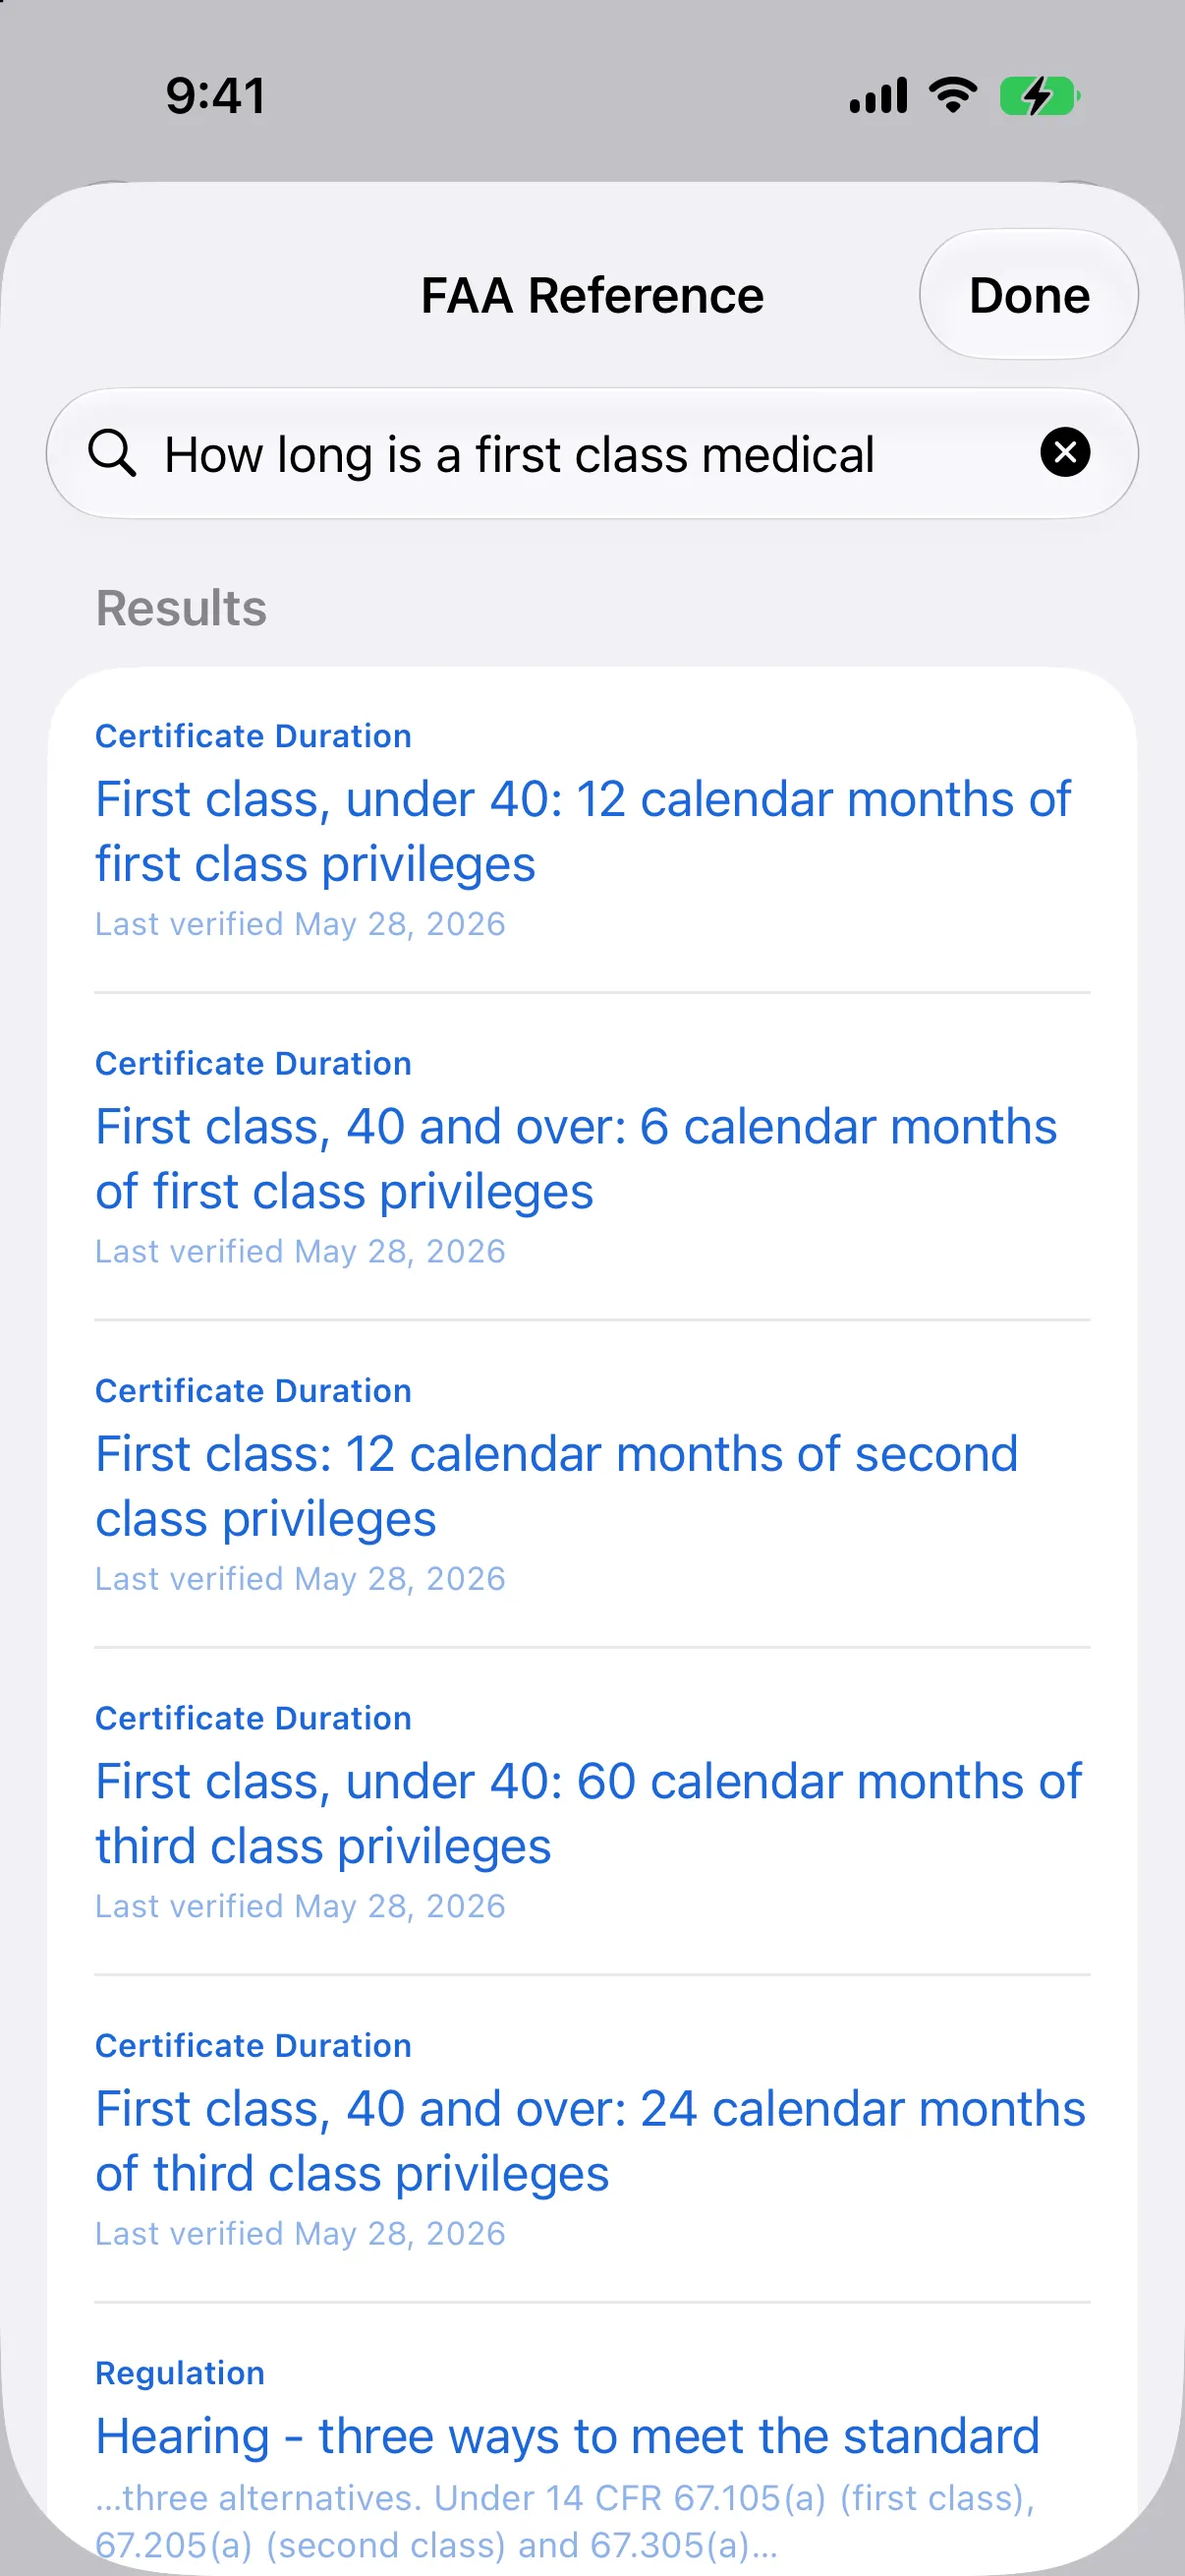
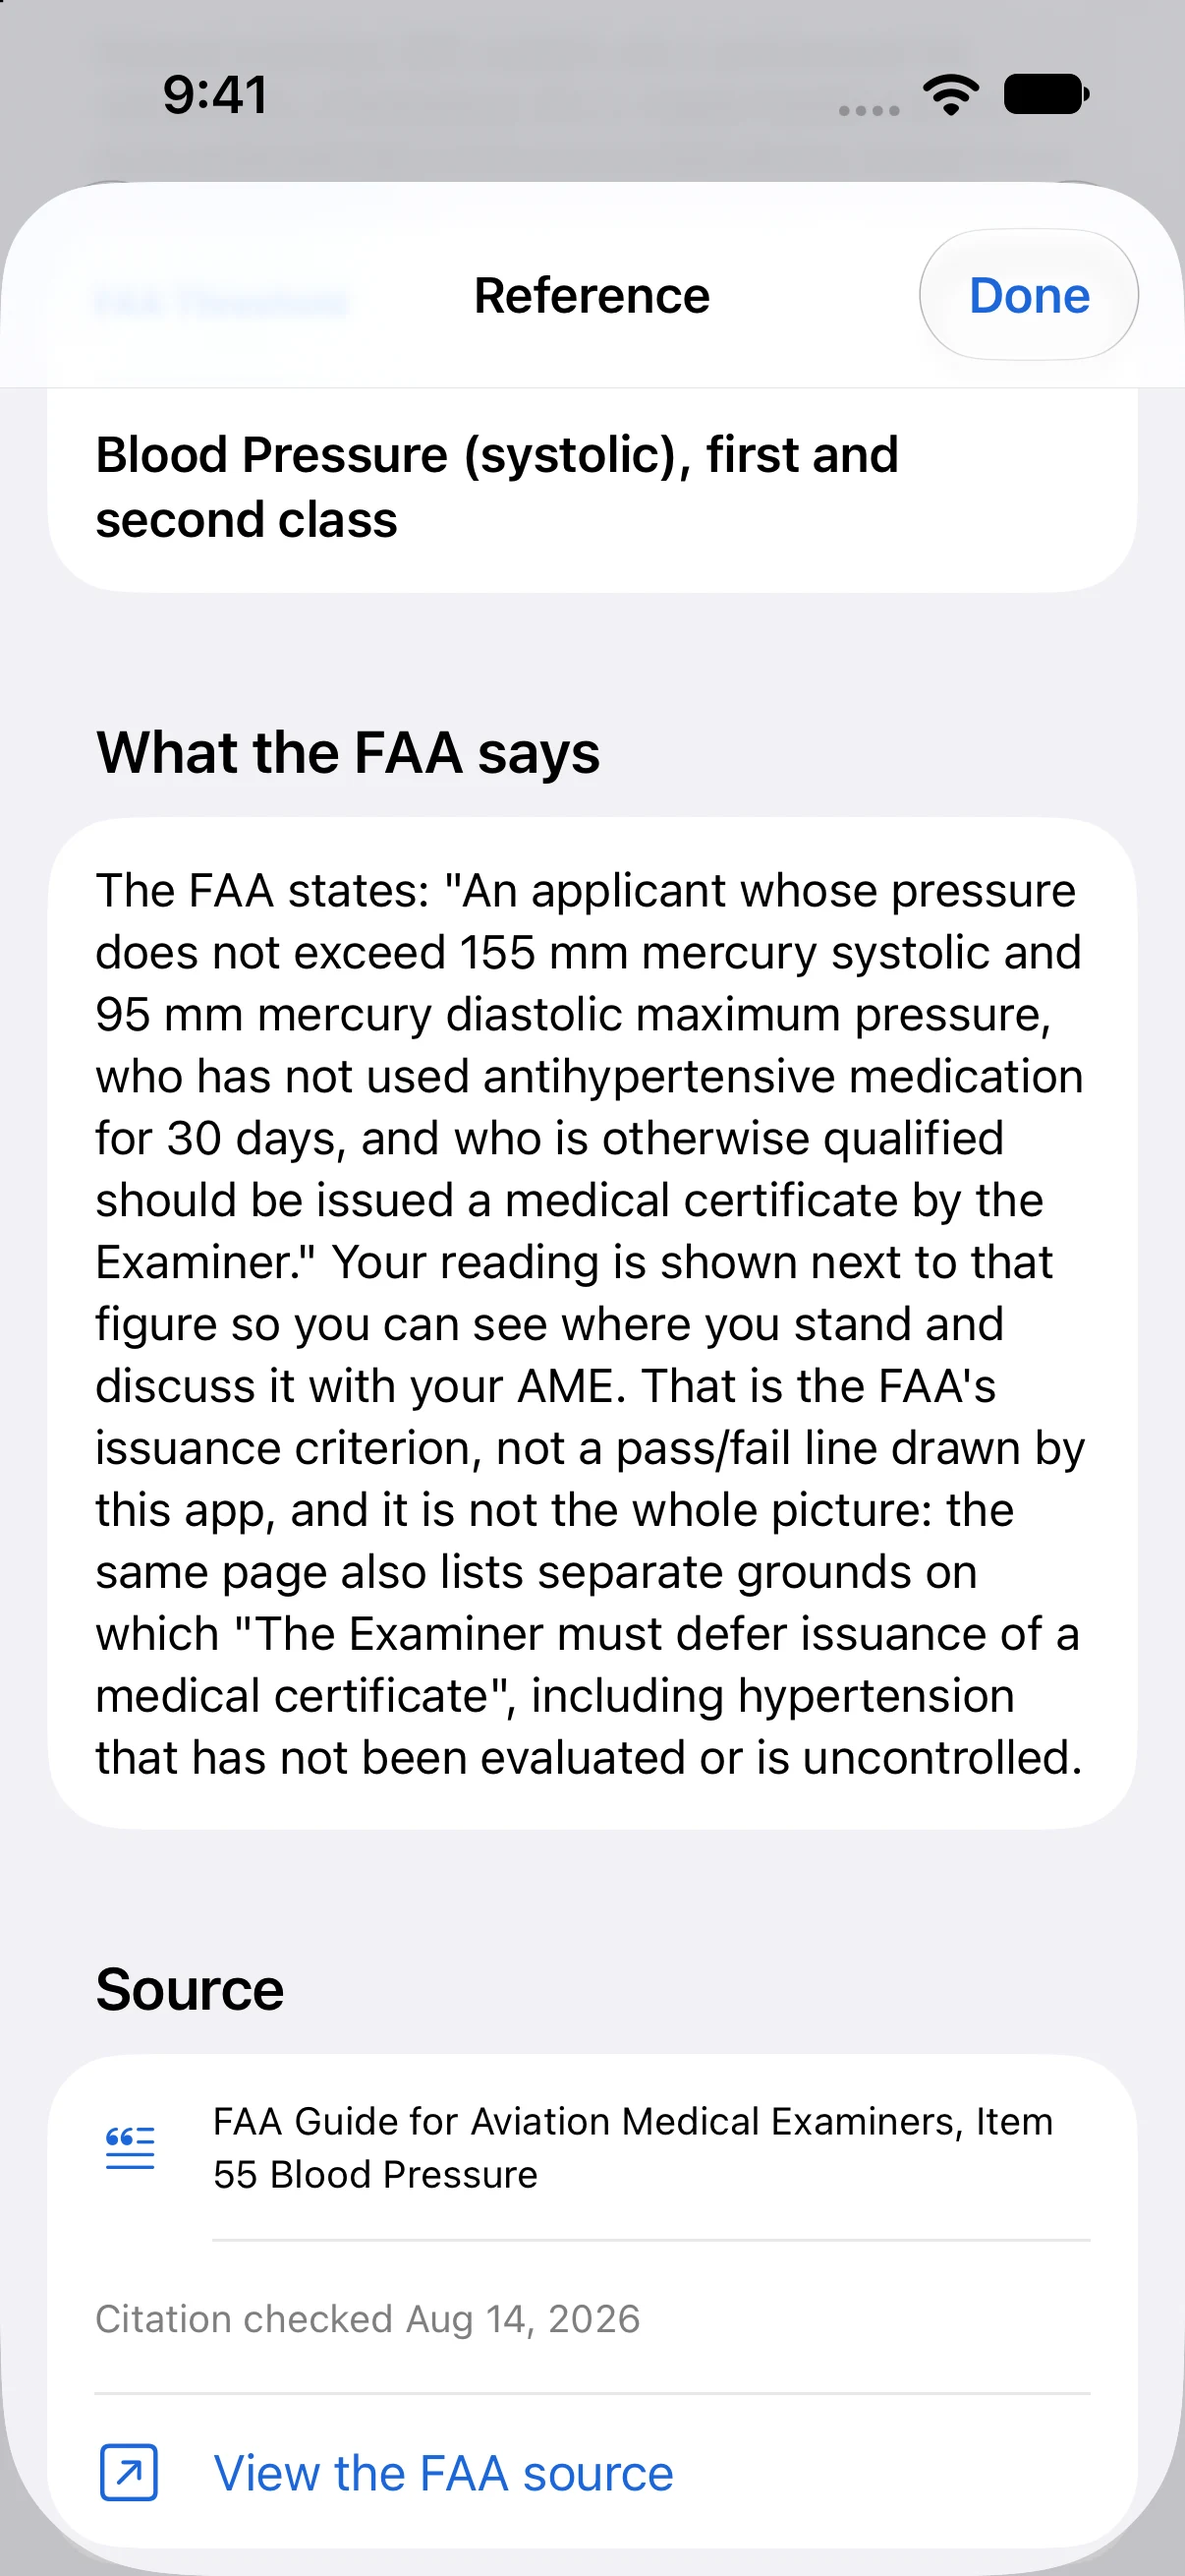
Website: refresh the 8/28 feature images from the 10/27 captures (Mac MedXPress, MedXPress, SI, Health, FAA Reference)
Ryan 10/29: the Now on Mac image was old. basicmed.webp and documents.webp kept (no fresh capture).

diff --git a/index.html b/index.html
@@ -579,11 +579,11 @@
       </div>
       <div class="shots">
         <figure><img src="/screenshots/home.webp?v=20261029" width="1206" height="2620" loading="lazy" decoding="async" alt="Home screen showing the time until the medical certificate expires, with BasicMed course and exam countdowns"><figcaption>Know exactly when your medical expires</figcaption></figure>
-        <figure><img src="/screenshots/medxpress.webp?v=20260828" width="1206" height="2620" loading="lazy" decoding="async" alt="The in-app records screen with medications and doctor visits organized to match the FAA form"><figcaption>Your records, organized and ready to autofill</figcaption></figure>
-        <figure><img src="/screenshots/si.webp?v=20260828" width="1206" height="2620" loading="lazy" decoding="async" alt="Special Issuance checklist with requirements and reminders"><figcaption>Stay on top of Special Issuance</figcaption></figure>
-        <figure><img src="/screenshots/health.webp?v=20260828" width="1206" height="2620" loading="lazy" decoding="async" alt="A health metric charted against the FAA's cited threshold"><figcaption>Your numbers vs. the FAA's own thresholds</figcaption></figure>
+        <figure><img src="/screenshots/medxpress.webp?v=20261029" width="1206" height="2620" loading="lazy" decoding="async" alt="The in-app records screen with medications and doctor visits organized to match the FAA form"><figcaption>Your records, organized and ready to autofill</figcaption></figure>
+        <figure><img src="/screenshots/si.webp?v=20261029" width="1206" height="2620" loading="lazy" decoding="async" alt="Special Issuance checklist with requirements and reminders"><figcaption>Stay on top of Special Issuance</figcaption></figure>
+        <figure><img src="/screenshots/health.webp?v=20261029" width="1206" height="2620" loading="lazy" decoding="async" alt="A health metric charted against the FAA's cited threshold"><figcaption>Your numbers vs. the FAA's own thresholds</figcaption></figure>
         <figure><img src="/screenshots/documents.webp?v=20260828b" width="1206" height="2620" loading="lazy" decoding="async" alt="The Share-with-your-AME screen, choosing which records to bundle into one PDF"><figcaption>Bundle it into one PDF for your AME</figcaption></figure>
-        <figure><img src="/screenshots/faa-reference.webp?v=20260828" width="1206" height="2620" loading="lazy" decoding="async" alt="The FAA Reference search screen answering a plain-language question, with each result showing the FAA source it came from and the date it was last verified"><figcaption>Ask a plain question, get the FAA's cited answer</figcaption></figure>
+        <figure><img src="/screenshots/faa-reference.webp?v=20261029" width="1206" height="2620" loading="lazy" decoding="async" alt="An FAA Reference entry showing what the FAA says, its source, and the date the citation was checked"><figcaption>Ask a plain question, get the FAA's cited answer</figcaption></figure>
       </div>
       <p class="fineprint">Screens use sample data.</p>
     </div>
@@ -603,7 +603,7 @@
         <p>Most pilots fill out MedXPress sitting at a computer. The Mac app puts your records on that same machine: open the form in Safari, click Fill, and your medications and doctor visits drop into Items 17 and 19. You review every line and submit it yourself.</p>
       </div>
       <figure class="macshot">
-        <img src="/screenshots/mac-medxpress.webp?v=20260828" width="2200" height="1651" loading="lazy" decoding="async" alt="Pilot Medical Guardian on macOS showing the MedXPress Prep screen, with the sidebar at left, medications listed under Item 17 and doctor visits under Item 19">
+        <img src="/screenshots/mac-medxpress.webp?v=20261029" width="2200" height="1651" loading="lazy" decoding="async" alt="Pilot Medical Guardian on macOS showing the MedXPress Prep screen, with the sidebar at left, medications listed under Item 17 and tabs for Items 18 and 19">
       </figure>
       <div class="macgrid">
         <div class="maccard">
